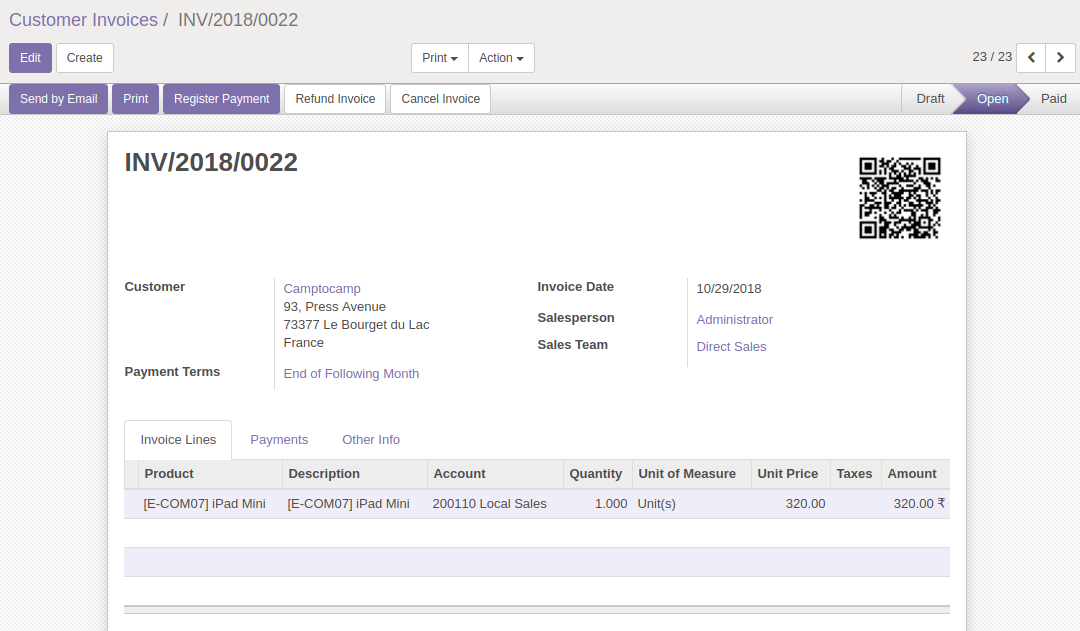
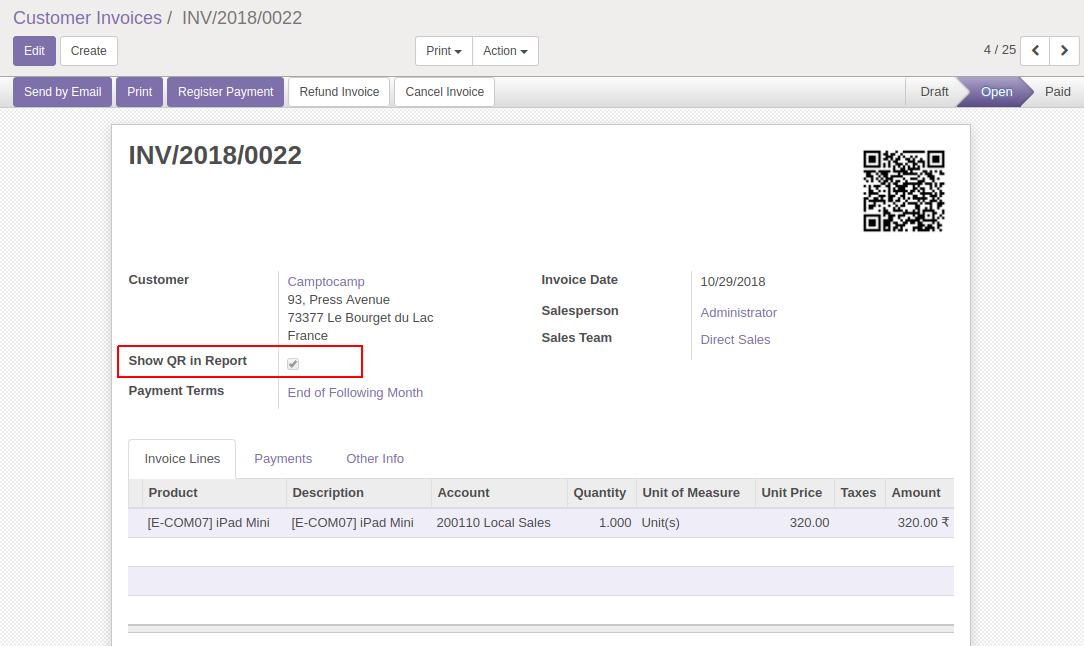
[IMP] Added boolean field to show QR code in the report.

Changed region(s): [[0.0, 0.0, 1.0, 1.0], [0.4889, 0.4216, 0.5806, 0.5721], [0.6417, 0.4216, 0.7333, 0.5721]]

diff --git a/ehcs_qr_code_invoice/models/qr_code_invoice.py b/ehcs_qr_code_invoice/models/qr_code_invoice.py
@@ -8,6 +8,7 @@ class QRCodeInvoice(models.Model):
     _inherit = 'account.invoice'
 
     qr_image = fields.Binary("QR Code", compute='_generate_qr_code')
+    qr_in_report = fields.Boolean('Show QR in Report')
 
     @api.one
     def _generate_qr_code(self):

diff --git a/ehcs_qr_code_purchase/models/qr_code_purchase.py b/ehcs_qr_code_purchase/models/qr_code_purchase.py
@@ -9,6 +9,7 @@ class QRCodePurchase(models.Model):
     _inherit = 'purchase.order'
 
     qr_image = fields.Binary("QR Code", compute='_generate_qr_code')
+    qr_in_report = fields.Boolean('Show QR in Report')
 
     @api.one
     def _generate_qr_code(self):

diff --git a/ehcs_qr_code_sale/models/qr_code_sale.py b/ehcs_qr_code_sale/models/qr_code_sale.py
@@ -9,6 +9,7 @@ class QRCodeSale(models.Model):
     _inherit = 'sale.order'
 
     qr_image = fields.Binary("QR Code", compute='_generate_qr_code')
+    qr_in_report = fields.Boolean('Show QR in Report')
 
     @api.one
     def _generate_qr_code(self):
